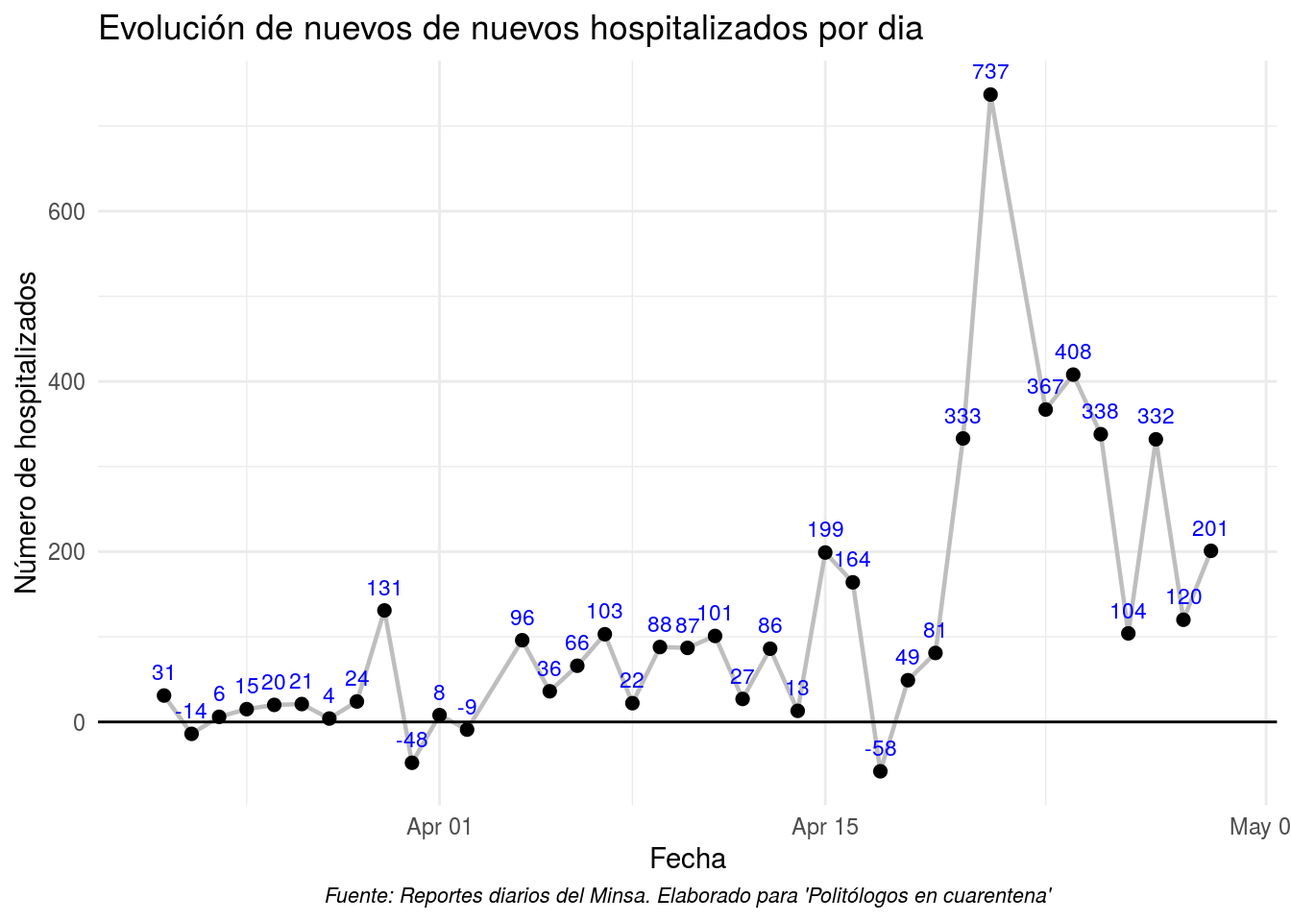
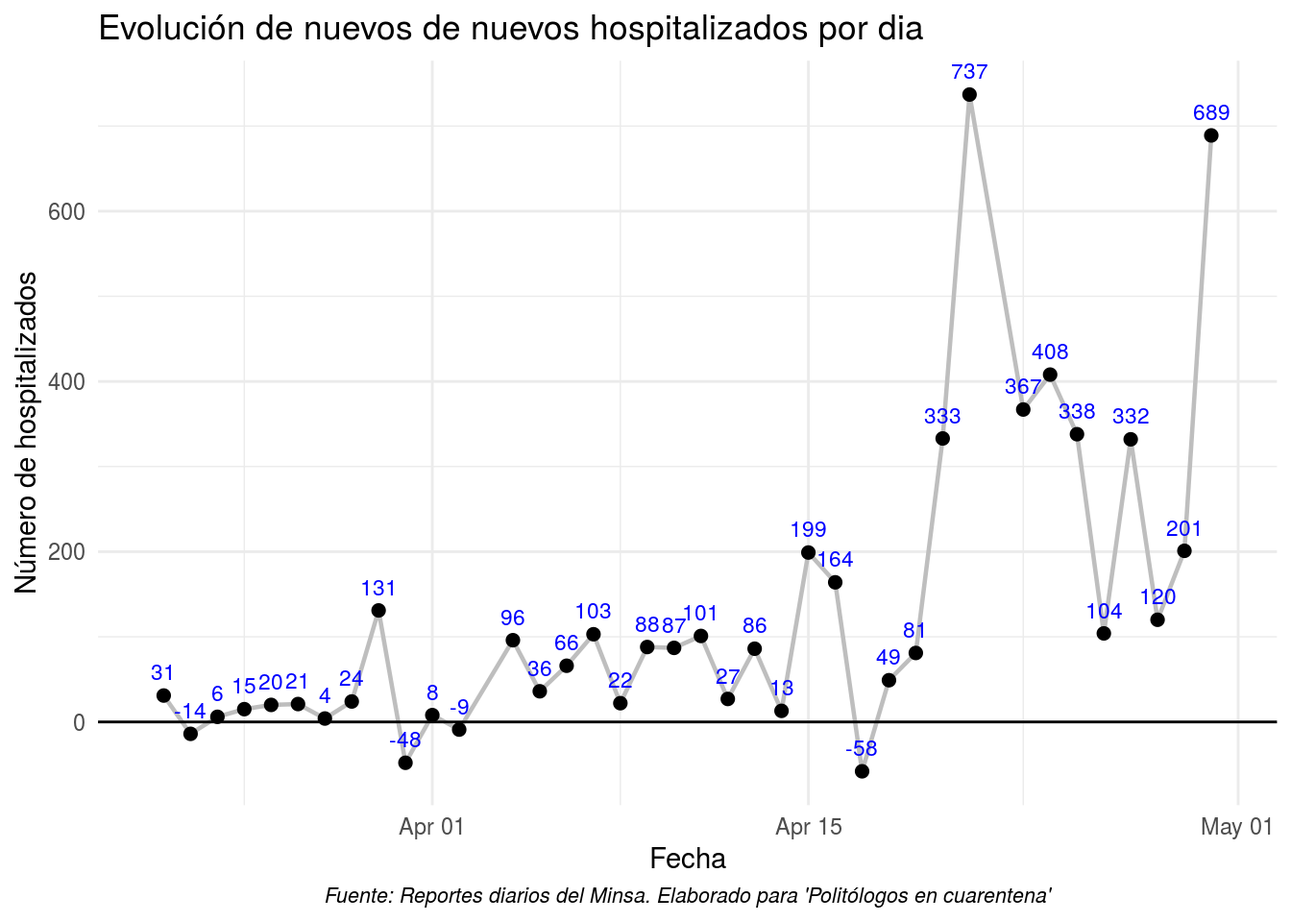
Casos nacionales 30 de abril

diff --git a/nacional.html b/nacional.html
@@ -354,8 +354,8 @@ La <strong>taxonomía NATO</strong> (acrónimo de las palabras <em>nodality</em>
 <p>
 Entonces, <strong>¿Cuáles han sido los instrumentos de política puestos en práctica por el gobierno para enfrentar la crisis del COVID-19?</strong>
 </p>
-<div id="htmlwidget-f5c6d2acef330f66eb2a" style="width:100%;height:auto;" class="datatables html-widget"></div>
-<script type="application/json" data-for="htmlwidget-f5c6d2acef330f66eb2a">{"x":{"filter":"none","data":[["2020-04-30","2020-04-29","2020-04-29","2020-04-14","2020-04-09","2020-04-02","2020-04-02","2020-04-01","2020-03-30","2020-03-30","2020-03-29","2020-03-28","2020-03-26","2020-03-26","2020-03-26","2020-03-26","2020-03-26","2020-03-20","2020-03-20","2020-03-20","2020-03-20","2020-03-18","2020-03-18","2020-03-17","2020-03-17","2020-03-17","2020-03-16","2020-03-15","2020-03-15","2020-03-15","2020-03-15","2020-03-15","2020-03-15","2020-03-15","2020-03-15","2020-03-15","2020-03-14","2020-03-14","2020-03-13","2020-03-12","2020-03-12","2020-03-12","2020-03-12","2020-03-11","2020-03-11","2020-03-09","2020-03-08","2020-03-08","2020-03-06","2020-03-06","2020-03-06"],["Economía","Abastecimiento","Economía","Justicia","Economía","Orden Público","Anticorrupción","Salud","Orden Público","Laboral","Educación","Economía","Orden Público","Orden Público","Población vulnerable","Economía","Economía","Salud","Salud","Laboral","Economía","Orden Público","Servicios públicos","Orden Público","Economía","Abastecimiento","Población vulnerable","Orden Público","Orden Público","Orden Público","Transporte","Transporte","Laboral","Laboral","Salud","Salud","Economía","Orden Público","Obligaciones tributarias","Educación","Orden Público","Orden Público","Obligaciones tributarias","Orden Público","Orden Público","Salud","Salud","Salud","Salud","Salud","Salud"],["Aprobación del retiro del 25% de los fondos de AFP","Cierre por 10 días del Mercado Caqueta para su desinfección y apertura de mercado itinerante en la Av. Zarumilla para el abastecimiento temporal","Se habilita el retiro de un máximo de 3000 soles de la AFP","Aplicación de la conversión automática de la pena a arresto domiciliario para personas condenadas por el delito de omisión de asistencia familiar con el objetivo de reducir el hacinamiento en los centro penitenciarios y evitar contagios de COVID-19","Lanzamiento del aplicativo web que permite el seguimiento del presupuesto asignado para mitigar efectos del COVID-19","Se restringe la movilización de hombres y mujeres a días determinados, para reducir la circulación de personas. Mujeres: martes, jueves y sábados. Hombres: lunes, miércoles y viernes","Se dispone el uso obligatorio de la \"Plataforma  para la Transparencia de la Gestión Pública en la Emergencia Sanitaria COVID-19\" por parte de los gobiernos locales","Se apertura la plataforma virtual \"Perú en tus manos\"","Modificación del horario de Inmovilizacion Social Obligatoria desde las 6 pm. hasta las 5 am. a nivel nacional. Excepción de Loreto, Piura, Lambayeque y La Libertad, Tumbes donde se aplicará desde las 4 pm.","Autorización de los 2000 soles de AFP para aquellos trabajadores que no estan en planilla de los ultimos 12 meses.","Aprobación de los criterios para la supervisión de la adaptación de la educación no presencial, con caracter excepcional, en las universidades y escuelas de posgrado","Aprobación de Contrato de Fideicomiso de Administración del Fondo de Apoyo Empresarial a la MYPE","Ampliación de Estado de Emergencia por 13 dias calendarios","Registro de personas infractoras del Estado de Emergencia para derivarse al Ministerio Público","Entrega de canasta basica a familias vulnerables","Suspension del mes de abril a los aportes en AFP","Subsidio para el pago de planilla de empleadores del sector privado orientado a la preservación del empleo","App para registro y pruebas autoaplicadas","Aumento constante de pruebas diarias aplicadas","Se establece la licencia con goce de haber compensable.","Apoyo financiero a la MYPE y financiamiento de acciones ante los efectos del COVID-19","Inmovilizacion Social Obligatorio (de 8 pm. a 5 am.)","Postergacion de pagos de servicios publicos del mes de marzo","Autorización de solicitud de pase de tránsito","Ampliación de la vigencia de los DNI caducos o próximos a caducar, para acceder a bienes y servicios","Prorrogan vigencia de títulos habilitantes en materia de licencias de conducir, servicios de transporte de personas y de carga y mercancía","Bono de 380 soles para familias en situación en situación vulnerable","Declaración de Estado de Emergencia (suspensión de derechos constitucionales)","Suspensión de acceso publico a lugares y toda actividad masiva","Cierre temporal de fronteras durante el tiempo de Estado de Emergencia","Transporte urbano reduce oferta en 50%","Restricción de transporte interprovincial (exceptuando a carga y/o mercancía)","Autorización del trabajo remoto para el sector publico y privado","Subsidio a trabajadores con COVID-19","#quedateencasa #yomequedoencasa","Reporte diarios del avance de las medidas por parte del Presidente","Amplían el alcance de la cobertura del Fondo CRECER para las Pymes","Suspensión temporal de recepción de naves crucero","Reduccion a 0% de tasa arancelaria a la importación de bienes vinculados a la Emergencia Sanitaria","Postergación o suspensión de actividades en los universidades e institutos públicos o privados ","Prohibicion de cualquier espectáculo de más de 300 personas y locales al 50% de aforo","Suspensión de vuelos a Europa y Asia por 30 dias","Aplazamiento de la declaracion de impuestos","Aislamiento domiciliario por catorce (14) días para personas provenientes de España, Italia y China","Postergación o suspensión de actividades en los centros educativos públicos o privados ","Guía para la prevención del COVID-19 en el ámbito laboral","Atención y manejo clinico de casos de COVID-19\n","Declaración Jurada de Salud del Viajero para prevenir el coronavirus (COVID-19)","Campañas de promoción de lavado de manos\n","Inicio de reportes diarios de casos confirmados","Habilitación de la Linea 113"],["Tesoro","Autoridad","Tesoro","Autoridad","Nodalidad","Autoridad","Nodalidad","Nodalidad","Autoridad","Tesoro","Autoridad","Tesoro","Autoridad","Autoridad","Tesoro","Tesoro","Tesoro","Nodalidad","Nodalidad","","Tesoro","Autoridad","Tesoro","Nodalidad","Tesoro","Organización","Tesoro","Autoridad","Autoridad","Autoridad","Autoridad","Autoridad","Autoridad","Tesoro","Nodalidad","Nodalidad","Tesoro","Autoridad","Tesoro","Autoridad","Autoridad","Autoridad","Tesoro","Autoridad","Autoridad","Autoridad","Autoridad","Nodalidad","Nodalidad","Nodalidad","Organización"]],"container":"<table class=\"display\">\n  <thead>\n    <tr>\n      <th>Fecha<\/th>\n      <th>Sector<\/th>\n      <th>Instrumento<\/th>\n      <th>Tipo<\/th>\n    <\/tr>\n  <\/thead>\n<\/table>","options":{"pageLength":10,"lengthMenu":[10,15,20],"language":{"lengthMenu":"Mostrar _MENU_ entradas","info":"Mostrando _START_ al _END_ de _TOTAL_ entradas","search":"Buscar:","paginate":{"previous":"Anterior","next":"Siguiente"}},"order":[],"autoWidth":false,"orderClasses":false}},"evals":[],"jsHooks":[]}</script>
+<div id="htmlwidget-556fe469fab89ae21f2c" style="width:100%;height:auto;" class="datatables html-widget"></div>
+<script type="application/json" data-for="htmlwidget-556fe469fab89ae21f2c">{"x":{"filter":"none","data":[["2020-04-30","2020-04-29","2020-04-29","2020-04-14","2020-04-09","2020-04-02","2020-04-02","2020-04-01","2020-03-30","2020-03-30","2020-03-29","2020-03-28","2020-03-26","2020-03-26","2020-03-26","2020-03-26","2020-03-26","2020-03-20","2020-03-20","2020-03-20","2020-03-20","2020-03-18","2020-03-18","2020-03-17","2020-03-17","2020-03-17","2020-03-16","2020-03-15","2020-03-15","2020-03-15","2020-03-15","2020-03-15","2020-03-15","2020-03-15","2020-03-15","2020-03-15","2020-03-14","2020-03-14","2020-03-13","2020-03-12","2020-03-12","2020-03-12","2020-03-12","2020-03-11","2020-03-11","2020-03-09","2020-03-08","2020-03-08","2020-03-06","2020-03-06","2020-03-06"],["Economía","Abastecimiento","Economía","Justicia","Economía","Orden Público","Anticorrupción","Salud","Orden Público","Laboral","Educación","Economía","Orden Público","Orden Público","Población vulnerable","Economía","Economía","Salud","Salud","Laboral","Economía","Orden Público","Servicios públicos","Orden Público","Economía","Abastecimiento","Población vulnerable","Orden Público","Orden Público","Orden Público","Transporte","Transporte","Laboral","Laboral","Salud","Salud","Economía","Orden Público","Obligaciones tributarias","Educación","Orden Público","Orden Público","Obligaciones tributarias","Orden Público","Orden Público","Salud","Salud","Salud","Salud","Salud","Salud"],["Aprobación del retiro del 25% de los fondos de AFP","Cierre por 10 días del Mercado Caqueta para su desinfección y apertura de mercado itinerante en la Av. Zarumilla para el abastecimiento temporal","Se habilita el retiro de un máximo de 3000 soles de la AFP","Aplicación de la conversión automática de la pena a arresto domiciliario para personas condenadas por el delito de omisión de asistencia familiar con el objetivo de reducir el hacinamiento en los centro penitenciarios y evitar contagios de COVID-19","Lanzamiento del aplicativo web que permite el seguimiento del presupuesto asignado para mitigar efectos del COVID-19","Se restringe la movilización de hombres y mujeres a días determinados, para reducir la circulación de personas. Mujeres: martes, jueves y sábados. Hombres: lunes, miércoles y viernes","Se dispone el uso obligatorio de la \"Plataforma  para la Transparencia de la Gestión Pública en la Emergencia Sanitaria COVID-19\" por parte de los gobiernos locales","Se apertura la plataforma virtual \"Perú en tus manos\"","Modificación del horario de Inmovilizacion Social Obligatoria desde las 6 pm. hasta las 5 am. a nivel nacional. Excepción de Loreto, Piura, Lambayeque y La Libertad, Tumbes donde se aplicará desde las 4 pm.","Autorización de los 2000 soles de AFP para aquellos trabajadores que no estan en planilla de los ultimos 12 meses.","Aprobación de los criterios para la supervisión de la adaptación de la educación no presencial, con caracter excepcional, en las universidades y escuelas de posgrado","Aprobación de Contrato de Fideicomiso de Administración del Fondo de Apoyo Empresarial a la MYPE","Ampliación de Estado de Emergencia por 13 dias calendarios","Registro de personas infractoras del Estado de Emergencia para derivarse al Ministerio Público","Entrega de canasta basica a familias vulnerables","Suspension del mes de abril a los aportes en AFP","Subsidio para el pago de planilla de empleadores del sector privado orientado a la preservación del empleo","App para registro y pruebas autoaplicadas","Aumento constante de pruebas diarias aplicadas","Se establece la licencia con goce de haber compensable.","Apoyo financiero a la MYPE y financiamiento de acciones ante los efectos del COVID-19","Inmovilizacion Social Obligatorio (de 8 pm. a 5 am.)","Postergacion de pagos de servicios publicos del mes de marzo","Autorización de solicitud de pase de tránsito","Ampliación de la vigencia de los DNI caducos o próximos a caducar, para acceder a bienes y servicios","Prorrogan vigencia de títulos habilitantes en materia de licencias de conducir, servicios de transporte de personas y de carga y mercancía","Bono de 380 soles para familias en situación en situación vulnerable","Declaración de Estado de Emergencia (suspensión de derechos constitucionales)","Suspensión de acceso publico a lugares y toda actividad masiva","Cierre temporal de fronteras durante el tiempo de Estado de Emergencia","Transporte urbano reduce oferta en 50%","Restricción de transporte interprovincial (exceptuando a carga y/o mercancía)","Autorización del trabajo remoto para el sector publico y privado","Subsidio a trabajadores con COVID-19","#quedateencasa #yomequedoencasa","Reporte diarios del avance de las medidas por parte del Presidente","Amplían el alcance de la cobertura del Fondo CRECER para las Pymes","Suspensión temporal de recepción de naves crucero","Reduccion a 0% de tasa arancelaria a la importación de bienes vinculados a la Emergencia Sanitaria","Postergación o suspensión de actividades en los universidades e institutos públicos o privados ","Prohibicion de cualquier espectáculo de más de 300 personas y locales al 50% de aforo","Suspensión de vuelos a Europa y Asia por 30 dias","Aplazamiento de la declaracion de impuestos","Aislamiento domiciliario por catorce (14) días para personas provenientes de España, Italia y China","Postergación o suspensión de actividades en los centros educativos públicos o privados ","Guía para la prevención del COVID-19 en el ámbito laboral","Atención y manejo clinico de casos de COVID-19\n","Declaración Jurada de Salud del Viajero para prevenir el coronavirus (COVID-19)","Campañas de promoción de lavado de manos\n","Inicio de reportes diarios de casos confirmados","Habilitación de la Linea 113"],["Tesoro","Autoridad","Tesoro","Autoridad","Nodalidad","Autoridad","Nodalidad","Nodalidad","Autoridad","Tesoro","Autoridad","Tesoro","Autoridad","Autoridad","Tesoro","Tesoro","Tesoro","Nodalidad","Nodalidad","","Tesoro","Autoridad","Tesoro","Nodalidad","Tesoro","Organización","Tesoro","Autoridad","Autoridad","Autoridad","Autoridad","Autoridad","Autoridad","Tesoro","Nodalidad","Nodalidad","Tesoro","Autoridad","Tesoro","Autoridad","Autoridad","Autoridad","Tesoro","Autoridad","Autoridad","Autoridad","Autoridad","Nodalidad","Nodalidad","Nodalidad","Organización"]],"container":"<table class=\"display\">\n  <thead>\n    <tr>\n      <th>Fecha<\/th>\n      <th>Sector<\/th>\n      <th>Instrumento<\/th>\n      <th>Tipo<\/th>\n    <\/tr>\n  <\/thead>\n<\/table>","options":{"pageLength":10,"lengthMenu":[10,15,20],"language":{"lengthMenu":"Mostrar _MENU_ entradas","info":"Mostrando _START_ al _END_ de _TOTAL_ entradas","search":"Buscar:","paginate":{"previous":"Anterior","next":"Siguiente"}},"order":[],"autoWidth":false,"orderClasses":false}},"evals":[],"jsHooks":[]}</script>
 </div>
 <div id="redes-de-subsistemas-politicos" class="section level3">
 <h3>2.3. Redes de subsistemas politicos</h3>
@@ -406,8 +406,8 @@ En este contexto de Estado de Emergencia, las princpales actividades aún vigent
 <div id="conflictos-sociales-vinculados-al-estado-de-emergencia" class="section level3">
 <h3>2.6. Conflictos sociales vinculados al Estado de Emergencia</h3>
 <p>Según el reporte de conflictos mensual emitido por la Defensoria del Pueblo, para el mes de marzo se registraron <strong>18 acciones de protesta</strong> vinculadas a la situación de emergencia por causa del COVID-19. En el mes de abril estas manifestaciones se han venido incrementando diariamente.</p>
-<div id="htmlwidget-39419cd7ab3ef1017330" style="width:100%;height:auto;" class="datatables html-widget"></div>
-<script type="application/json" data-for="htmlwidget-39419cd7ab3ef1017330">{"x":{"filter":"none","data":[["2020-04-29","2020-04-29","2020-04-29","2020-04-29","2020-04-27","2020-04-24","2020-04-20","2020-03-30","2020-03-28","2020-03-27","2020-03-27","2020-03-24","2020-03-24","2020-03-19","2020-03-19","2020-03-18","2020-03-17","2020-03-17","2020-03-11","2020-03-11","2020-03-11","2020-03-10","2020-03-06","2020-03-02"],["Enfermeras del Hospital Militar","Padres de colegios privados","Ciudadanos loretanos","Padres de colegios privados en Juliaca","Técnicos y enfermeros del hospital Hipólito Unanue","Padres del Colegio Technology School","Personal de salud del Hospital Maria Auxiliadora","Presos del penal de Yanamilla\n","Población del sector calle\nDos ","Médicos del Hospital Honorio Delgado Espinoza","Población del sector de Chicago de Trujillo","Transportistas de Carga Pesada","Asociación de\nTransportes de Carga\nPeligrosa\n","Poblacion de Lima","Ciudadanos varados en\nlas afueras del\naeropuerto Jorge Chávez","Médicos del Hospital César Garayar García","Trabajadores del Programa Surco Verde","Población del asentamiento humano Complejo Habitaciona","Población del distrito de\nVíctor Larco","Personal de salud del Hospital Regional de Áncash - Eleazar Gusmán Barrón","Médicos, enfermeras y trabajadores del Hospital Carlos Alcántara","Médicos del Hospital Goyoneche","Médicos y personal del Hospital Uldarico Roca Fernández","Población de Nuevo Chimbote"],["Las enfermeras del Hospital Militar se vieron obligadas a protestar fuera de dicho nosocomio en Lima, debido a que no se les entrega protección adecuada para proteger su vida y salud del coronavirus COVID-19","Padres protestan en las afueras del colegio Trilce de Chorrillos para exigir reducción del 50% de la pensión","Loretanos bloquearon la Av. Faucett exigiendo traslado humanitario","Juliaca: padres protestan para lograr rebaja de pensiones en colegios privados","El personal pidió que se cumpla con sus pagos y se les asignen los implementos necesarios para que continúen luchando contra el COVID-19.","Padres protestan en los exteriores de colegios particulares por cobro de pensiones","Un grupo de profesionales de la salud, entre médicos, enfermeras y trabajadores, del hospital María Auxiliadora realizó una protesta frente a dicha institución, en Villa María del Triunfo, para reclamar por la falta de equipos de protección personal (EPP). ","Ampliación hasta el próximo 31 de octubre de la vigencia de la Habilitación del conductor y de la Tarjeta Única de Circulación (TUC).","Rechazan que el recinto deportivo Campeones del 36 sea considerado como albergue para pacientes positivos de coronavirus.","Rechazan la decisión de utilizar el área sensible como zona de aislamiento temporal para pacientes graves por coronavirus","Rechazan la instalación de un hospital itinerante para pacientes de coronavirus en el complejo deportivo Chan Chan.\n","Exigen se anule el cobro de peajes en pleno Estado de Emergencia Nacional","Denuncian el funcionamiento de la empresa minera Lincuna en pleno Estado de Emergencia Nacional","Exigen a las autoridades ayuda y que se disponga de un vuelo humanitario a la ciudad de Lima.","Exigen a las autoridades ayuda y que se disponga de vuelos humanitarios para los destinos de Arequipa, Piura, Cusco y Puerto Maldonado.","Exigen implementos necesarios y suficientes para poder atender los casos de pacientes con coronavirus.","Denuncian que pese a la prohibición de movimiento por el Estado de Emergencia a causa del coronavirus, la Municipalidad de Surco les obliga a trabajar con normalidad.","Exigen recibir el bono de S/. 380 anunciado por el Gobierno Nacional en el marco del Estado de Emergencia Nacional por el coronavirus.","Rechazan que el Centro Preventorio de EsSalud sea considerado para la atención de presuntos portadores de\ncoronavirus.","Exigen mejores condiciones e implementos como mascarillas, botas, mandiles; que ayuden a enfrentar posibles casos de coronavirus.","Denuncian la improvisación de Essalud para la atención de pacientes infectados con el nuevo coronavirus. Asimismo, exigen mejores condiciones e implementos como mascarillas, botas, mandiles, entre otros","Exigen mejores condiciones e implementos como mascarillas, botas, mandiles; que ayuden a enfrentar\nposibles casos de coronavirus.\n","Rechazan la designación del hospital Uldarico Roca Fernández como uno de los centros médicos para atender\ncasos de coronavirus en Perú.","Exigen el cierre temporal del puerto de Chimbote para evitar el ingreso de posibles casos del nuevo coronavirus\nen la región."],["Plantón","Plantón","Bloqueo de vía","Plantón","Plantón","Plantón","Plantón","Plantón","Plantón","Plantón","Plantón","Concentración","Concentración","Plantón","Concentración","Plantón","Paralización de actividades\n","Concentración","Concentración","Plantón","Plantón","Plantón","Plantón","Concentración"]],"container":"<table class=\"display\">\n  <thead>\n    <tr>\n      <th>Fecha<\/th>\n      <th>Actores en protesta<\/th>\n      <th>Contenido<\/th>\n      <th>Accion colectiva<\/th>\n    <\/tr>\n  <\/thead>\n<\/table>","options":{"order":[],"autoWidth":false,"orderClasses":false}},"evals":[],"jsHooks":[]}</script>
+<div id="htmlwidget-6ce85d82aaca64a7bd91" style="width:100%;height:auto;" class="datatables html-widget"></div>
+<script type="application/json" data-for="htmlwidget-6ce85d82aaca64a7bd91">{"x":{"filter":"none","data":[["2020-04-29","2020-04-29","2020-04-29","2020-04-29","2020-04-27","2020-04-24","2020-04-20","2020-03-30","2020-03-28","2020-03-27","2020-03-27","2020-03-24","2020-03-24","2020-03-19","2020-03-19","2020-03-18","2020-03-17","2020-03-17","2020-03-11","2020-03-11","2020-03-11","2020-03-10","2020-03-06","2020-03-02"],["Enfermeras del Hospital Militar","Padres de colegios privados","Ciudadanos loretanos","Padres de colegios privados en Juliaca","Técnicos y enfermeros del hospital Hipólito Unanue","Padres del Colegio Technology School","Personal de salud del Hospital Maria Auxiliadora","Presos del penal de Yanamilla\n","Población del sector calle\nDos ","Médicos del Hospital Honorio Delgado Espinoza","Población del sector de Chicago de Trujillo","Transportistas de Carga Pesada","Asociación de\nTransportes de Carga\nPeligrosa\n","Poblacion de Lima","Ciudadanos varados en\nlas afueras del\naeropuerto Jorge Chávez","Médicos del Hospital César Garayar García","Trabajadores del Programa Surco Verde","Población del asentamiento humano Complejo Habitaciona","Población del distrito de\nVíctor Larco","Personal de salud del Hospital Regional de Áncash - Eleazar Gusmán Barrón","Médicos, enfermeras y trabajadores del Hospital Carlos Alcántara","Médicos del Hospital Goyoneche","Médicos y personal del Hospital Uldarico Roca Fernández","Población de Nuevo Chimbote"],["Las enfermeras del Hospital Militar se vieron obligadas a protestar fuera de dicho nosocomio en Lima, debido a que no se les entrega protección adecuada para proteger su vida y salud del coronavirus COVID-19","Padres protestan en las afueras del colegio Trilce de Chorrillos para exigir reducción del 50% de la pensión","Loretanos bloquearon la Av. Faucett exigiendo traslado humanitario","Juliaca: padres protestan para lograr rebaja de pensiones en colegios privados","El personal pidió que se cumpla con sus pagos y se les asignen los implementos necesarios para que continúen luchando contra el COVID-19.","Padres protestan en los exteriores de colegios particulares por cobro de pensiones","Un grupo de profesionales de la salud, entre médicos, enfermeras y trabajadores, del hospital María Auxiliadora realizó una protesta frente a dicha institución, en Villa María del Triunfo, para reclamar por la falta de equipos de protección personal (EPP). ","Ampliación hasta el próximo 31 de octubre de la vigencia de la Habilitación del conductor y de la Tarjeta Única de Circulación (TUC).","Rechazan que el recinto deportivo Campeones del 36 sea considerado como albergue para pacientes positivos de coronavirus.","Rechazan la decisión de utilizar el área sensible como zona de aislamiento temporal para pacientes graves por coronavirus","Rechazan la instalación de un hospital itinerante para pacientes de coronavirus en el complejo deportivo Chan Chan.\n","Exigen se anule el cobro de peajes en pleno Estado de Emergencia Nacional","Denuncian el funcionamiento de la empresa minera Lincuna en pleno Estado de Emergencia Nacional","Exigen a las autoridades ayuda y que se disponga de un vuelo humanitario a la ciudad de Lima.","Exigen a las autoridades ayuda y que se disponga de vuelos humanitarios para los destinos de Arequipa, Piura, Cusco y Puerto Maldonado.","Exigen implementos necesarios y suficientes para poder atender los casos de pacientes con coronavirus.","Denuncian que pese a la prohibición de movimiento por el Estado de Emergencia a causa del coronavirus, la Municipalidad de Surco les obliga a trabajar con normalidad.","Exigen recibir el bono de S/. 380 anunciado por el Gobierno Nacional en el marco del Estado de Emergencia Nacional por el coronavirus.","Rechazan que el Centro Preventorio de EsSalud sea considerado para la atención de presuntos portadores de\ncoronavirus.","Exigen mejores condiciones e implementos como mascarillas, botas, mandiles; que ayuden a enfrentar posibles casos de coronavirus.","Denuncian la improvisación de Essalud para la atención de pacientes infectados con el nuevo coronavirus. Asimismo, exigen mejores condiciones e implementos como mascarillas, botas, mandiles, entre otros","Exigen mejores condiciones e implementos como mascarillas, botas, mandiles; que ayuden a enfrentar\nposibles casos de coronavirus.\n","Rechazan la designación del hospital Uldarico Roca Fernández como uno de los centros médicos para atender\ncasos de coronavirus en Perú.","Exigen el cierre temporal del puerto de Chimbote para evitar el ingreso de posibles casos del nuevo coronavirus\nen la región."],["Plantón","Plantón","Bloqueo de vía","Plantón","Plantón","Plantón","Plantón","Plantón","Plantón","Plantón","Plantón","Concentración","Concentración","Plantón","Concentración","Plantón","Paralización de actividades\n","Concentración","Concentración","Plantón","Plantón","Plantón","Plantón","Concentración"]],"container":"<table class=\"display\">\n  <thead>\n    <tr>\n      <th>Fecha<\/th>\n      <th>Actores en protesta<\/th>\n      <th>Contenido<\/th>\n      <th>Accion colectiva<\/th>\n    <\/tr>\n  <\/thead>\n<\/table>","options":{"order":[],"autoWidth":false,"orderClasses":false}},"evals":[],"jsHooks":[]}</script>
 </div>
 <div id="noticias-demandas-y-pronunciamientos" class="section level3">
 <h3>2.7. Noticias, demandas y pronunciamientos</h3>

diff --git a/subnacional.html b/subnacional.html
@@ -312,8 +312,8 @@ $(document).ready(function () {
 <h3>3.1. Gobiernos regionales</h3>
 <div id="datos-sobre-casos-y-muestras-realizadas" class="section level4">
 <h4>3.1.1. Datos sobre casos y muestras realizadas</h4>
-<div id="htmlwidget-53c2ac8463779e9eaf74" style="width:100%;height:auto;" class="datatables html-widget"></div>
-<script type="application/json" data-for="htmlwidget-53c2ac8463779e9eaf74">{"x":{"filter":"none","data":[["Amazonas","Áncash","Apurímac","Arequipa","Ayacucho","Cajamarca","Callao","Cusco","Huancavelica","Huánuco","Ica","Junín","La Libertad","Lambayeque","Lima Metropolitana","Lima Región","Loreto","Madre de Dios","Moquegua","Pasco","Piura","Puno","San Martín","Tacna","Tumbes","Ucayali"],[2052,8574,2612,10173,2058,3784,12652,3746,1430,3640,4397,4825,7456,8873,174240,2559,5785,5119,3136,2127,8896,3790,4587,4353,2685,2713],[119,630,66,529,80,162,3101,203,75,169,401,373,615,1956,21337,517,1003,105,111,95,1080,89,205,94,290,526],["491,25","721,19","643,73","735,72","334,00","282,17","1272,20","310,74","411,35","504,82","516,83","387,23","419,33","741,11","1822,16","281,08","654,77","3628,69","1793,40","837,19","479,10","323,19","563,94","1321,77","1194,06","546,47"],["28,49","52,99","16,27","38,26","12,98","12,08","311,82","16,84","21,57","23,44","47,13","29,93","34,59","163,37","223,14","56,79","113,52","74,43","63,48","37,39","58,16","7,59","25,20","28,54","128,97","105,95"],["5,80%","7,35%","2,53%","5,20%","3,89%","4,28%","24,51%","5,42%","5,24%","4,64%","9,12%","7,73%","8,25%","22,04%","12,25%","20,20%","17,34%","2,05%","3,54%","4,47%","12,14%","2,35%","4,47%","2,16%","10,80%","19,39%"]],"container":"<table class=\"display\">\n  <thead>\n    <tr>\n      <th>Región<\/th>\n      <th>Muestras realizadas<\/th>\n      <th>Positivos<\/th>\n      <th>Muestras x 100 mil hab.<\/th>\n      <th>Positivos x 100 mil hab.<\/th>\n      <th>Porcentaje de positivos<\/th>\n    <\/tr>\n  <\/thead>\n<\/table>","options":{"pageLength":10,"lengthMenu":[10,15,20],"language":{"lengthMenu":"Mostrar _MENU_ entradas","info":"Mostrando _START_ al _END_ de _TOTAL_ entradas","search":"Buscar:","paginate":{"previous":"Anterior","next":"Siguiente"}},"columnDefs":[{"className":"dt-right","targets":[1,2]}],"order":[],"autoWidth":false,"orderClasses":false}},"evals":[],"jsHooks":[]}</script>
+<div id="htmlwidget-2aa42294f75a22525f70" style="width:100%;height:auto;" class="datatables html-widget"></div>
+<script type="application/json" data-for="htmlwidget-2aa42294f75a22525f70">{"x":{"filter":"none","data":[["Amazonas","Áncash","Apurímac","Arequipa","Ayacucho","Cajamarca","Callao","Cusco","Huancavelica","Huánuco","Ica","Junín","La Libertad","Lambayeque","Lima Metropolitana","Lima Región","Loreto","Madre de Dios","Moquegua","Pasco","Piura","Puno","San Martín","Tacna","Tumbes","Ucayali"],[2052,8574,2612,10173,2058,3784,12652,3746,1430,3640,4397,4825,7456,8873,174240,2559,5785,5119,3136,2127,8896,3790,4587,4353,2685,2713],[119,630,66,529,80,162,3101,203,75,169,401,373,615,1956,21337,517,1003,105,111,95,1080,89,205,94,290,526],["491,25","721,19","643,73","735,72","334,00","282,17","1272,20","310,74","411,35","504,82","516,83","387,23","419,33","741,11","1822,16","281,08","654,77","3628,69","1793,40","837,19","479,10","323,19","563,94","1321,77","1194,06","546,47"],["28,49","52,99","16,27","38,26","12,98","12,08","311,82","16,84","21,57","23,44","47,13","29,93","34,59","163,37","223,14","56,79","113,52","74,43","63,48","37,39","58,16","7,59","25,20","28,54","128,97","105,95"],["5,80%","7,35%","2,53%","5,20%","3,89%","4,28%","24,51%","5,42%","5,24%","4,64%","9,12%","7,73%","8,25%","22,04%","12,25%","20,20%","17,34%","2,05%","3,54%","4,47%","12,14%","2,35%","4,47%","2,16%","10,80%","19,39%"]],"container":"<table class=\"display\">\n  <thead>\n    <tr>\n      <th>Región<\/th>\n      <th>Muestras realizadas<\/th>\n      <th>Positivos<\/th>\n      <th>Muestras x 100 mil hab.<\/th>\n      <th>Positivos x 100 mil hab.<\/th>\n      <th>Porcentaje de positivos<\/th>\n    <\/tr>\n  <\/thead>\n<\/table>","options":{"pageLength":10,"lengthMenu":[10,15,20],"language":{"lengthMenu":"Mostrar _MENU_ entradas","info":"Mostrando _START_ al _END_ de _TOTAL_ entradas","search":"Buscar:","paginate":{"previous":"Anterior","next":"Siguiente"}},"columnDefs":[{"className":"dt-right","targets":[1,2]}],"order":[],"autoWidth":false,"orderClasses":false}},"evals":[],"jsHooks":[]}</script>
 <p>
 <div style="text-align:right">
 Datos actualizados al 29/04/2020. Fuente: Sala Situacional-MINSA

diff --git a/casos.html b/casos.html
@@ -323,7 +323,7 @@ En ese sentido, esta sección tiene por objetivo responder a la pregunta <strong
 <h3>1.1. Evolución de los casos positivos detectados</h3>
 <p><img src="casos_files/figure-html/unnamed-chunk-3-1.png" width="672" /></p>
 <p>
-<img src="casos_files/figure-html/filef7df9c438.gif" /><!-- -->
+<img src="casos_files/figure-html/filef867d6960d.gif" /><!-- -->
 </p>
 </div>
 <div id="nuevos-casos-positivos-detectados-por-día" class="section level3">
@@ -348,8 +348,8 @@ En ese sentido, esta sección tiene por objetivo responder a la pregunta <strong
 </div>
 <div id="evolución-en-la-disponibilidad-de-camas-uci" class="section level3">
 <h3>1.7. Evolución en la disponibilidad de camas UCI</h3>
-<div id="htmlwidget-a628e44d15d55e7dfd9d" style="width:100%;height:auto;" class="datatables html-widget"></div>
-<script type="application/json" data-for="htmlwidget-a628e44d15d55e7dfd9d">{"x":{"filter":"none","data":[["2020-04-21","2020-04-22","2020-04-23","2020-04-24","2020-04-25","2020-04-26","2020-04-27","2020-04-28","2020-04-29"],[525,525,652,652,719,726,773,777,810],[380,396,467,505,545,554,598,600,623],[145,129,185,147,174,172,175,177,187]],"container":"<table class=\"display\">\n  <thead>\n    <tr>\n      <th>Fecha<\/th>\n      <th>Total de camas UCI<\/th>\n      <th>Camas UCI ocupadas<\/th>\n      <th>Camas UCI disponibles<\/th>\n    <\/tr>\n  <\/thead>\n<\/table>","options":{"columnDefs":[{"className":"dt-right","targets":[1,2,3]}],"order":[],"autoWidth":false,"orderClasses":false}},"evals":[],"jsHooks":[]}</script>
+<div id="htmlwidget-eff33ce1b640bb214b7e" style="width:100%;height:auto;" class="datatables html-widget"></div>
+<script type="application/json" data-for="htmlwidget-eff33ce1b640bb214b7e">{"x":{"filter":"none","data":[["2020-04-21","2020-04-22","2020-04-23","2020-04-24","2020-04-25","2020-04-26","2020-04-27","2020-04-28","2020-04-29","2020-04-30"],[525,525,652,652,719,726,773,777,810,808],[380,396,467,505,545,554,598,600,623,651],[145,129,185,147,174,172,175,177,187,157]],"container":"<table class=\"display\">\n  <thead>\n    <tr>\n      <th>Fecha<\/th>\n      <th>Total de camas UCI<\/th>\n      <th>Camas UCI ocupadas<\/th>\n      <th>Camas UCI disponibles<\/th>\n    <\/tr>\n  <\/thead>\n<\/table>","options":{"columnDefs":[{"className":"dt-right","targets":[1,2,3]}],"order":[],"autoWidth":false,"orderClasses":false}},"evals":[],"jsHooks":[]}</script>
 </div>
 <div id="evolución-de-los-casos-positivos-activos" class="section level3">
 <h3>1.8. Evolución de los casos positivos activos</h3>
@@ -361,7 +361,7 @@ El número de casos activos es registrada descontando de los casos confirmados a
 <p><img src="casos_files/figure-html/unnamed-chunk-10-1.png" width="672" /></p>
 <p>
 <div style="text-align:right">
-Datos actualizados al 29/04/2020
+Datos actualizados al 30/04/2020
 </div>
 </p>
 </div>
